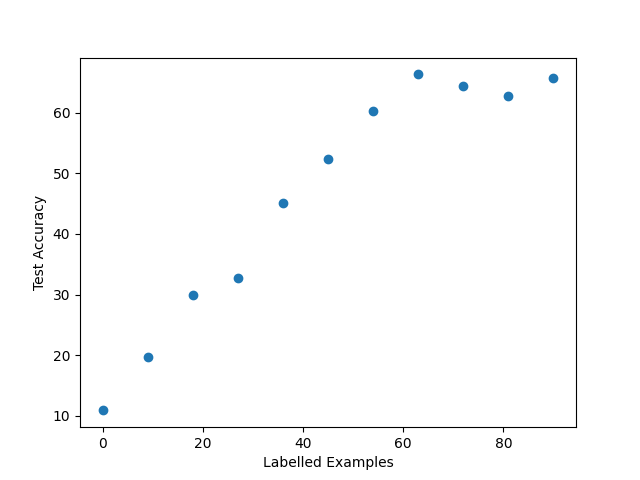
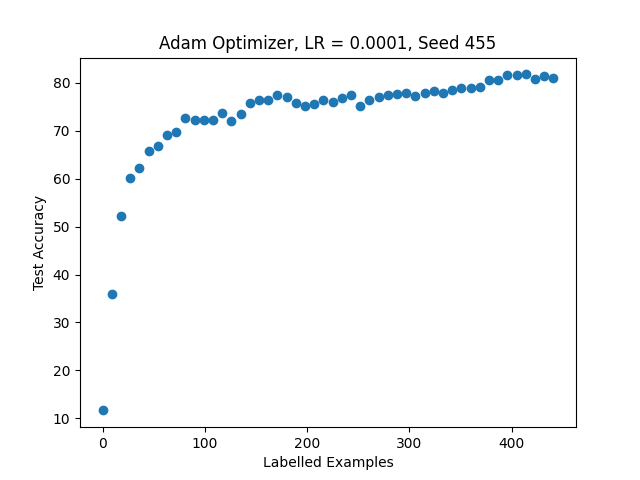
New Query Strategies

diff --git a/Active_FSL/base_main.py b/Active_FSL/base_main.py
@@ -1,8 +1,3 @@
-'''Active Learning Procedure in PyTorch.
-
-Reference:
-[Yoo et al. 2019] Learning Loss for Active Learning (https://arxiv.org/abs/1905.03677)
-'''
 from __future__ import division 
 #from pickle import TRUE
 from scipy.stats import entropy
@@ -52,7 +47,7 @@ random.seed(123) # controls python packages, e.g. random.choice()
 np.random.seed(123)
 
 # Torch Random Seed
-r_seed=459
+r_seed=455
 torch.manual_seed(r_seed)
 torch.cuda.manual_seed(r_seed)
 torch.backends.cudnn.deterministic = True
@@ -332,22 +327,22 @@ def test(models, dataloaders, mode='val'):
 ################# Informativeness calculation methods #################
 
 ###### Query strategy: Entropy-based score ############
-#def get_uncertainty(models, unlabeled_loader,unlabeled_set):
-#    models['backbone'].eval()
-#    entropylist=[]
-#    with torch.no_grad():
-#        for (inputs, labels) in unlabeled_loader:
-#            inputs = inputs.cuda()
-#            labels = labels.cuda()
-#            scores, _ = models['backbone'](inputs)
-#            probs = torch.nn.functional.softmax(scores, dim=1)
-#            for x in probs:
-#                entropylist.append(Categorical(probs = x).entropy())
-#        entropylist=torch.Tensor(entropylist)
-#    return entropylist
+def get_uncertainty_entropy(models, unlabeled_loader,unlabeled_set):
+    models['backbone'].eval()
+    entropylist=[]
+    with torch.no_grad():
+        for (inputs, labels) in unlabeled_loader:
+            inputs = inputs.cuda()
+            labels = labels.cuda()
+            scores, _ = models['backbone'](inputs)
+            probs = torch.nn.functional.softmax(scores, dim=1)
+            for x in probs:
+                entropylist.append(Categorical(probs = x).entropy())
+        entropylist=torch.Tensor(entropylist)
+    return entropylist
 
 ########## Query strategy: Margin sampling ####################
-def get_uncertainty(models, unlabeled_loader):
+def get_uncertainty_margin(models, unlabeled_loader):
     models['backbone'].eval()
     uncertainty_score=[]    
     with torch.no_grad():
@@ -393,7 +388,7 @@ if __name__ == '__main__':
     for trial in range(TRIALS): ## TRIALS=1
         indices = list(range(NUM_TRAIN)) # in config.py, we defined NUM_TRAIN = 10000
 
-##### With no initial set#####
+        ##### With no initial set#####
         labeled_set=[]
         first_selection_labeled_set=[]
 
@@ -421,7 +416,7 @@ if __name__ == '__main__':
         resnet18    = resnet.resnet18(num_classes=NUM_CLASSES).cuda()
         
         # load the weights from the pretrained model
-        state_dict = torch.load('/home/jupyter-nschiavo@ualberta.-a5539/realcode/Active-FSL/Pretrain_FSL_Model/model_best_standard.pth.tar') #load weights
+        state_dict = torch.load('/home/jupyter-nschiavo@ualberta.-a5539/realcode/Active-FSL/Pretrain_FSL_Model/model_best_standard.pth.tar')     
         pretrained_dict=state_dict['state_dict']
         model_dict=resnet18.state_dict()
         
@@ -444,15 +439,18 @@ if __name__ == '__main__':
         
 
         ################# Active learning cycles################
-        for cycle in range(CYCLES): # cycles = 15 in config
+        for cycle in range(CYCLES): # cycles in config
 
             criterion      = nn.CrossEntropyLoss(reduction='none')            
             
             ###### Just finetune classifier in each AL cycle.#####
             # finetuning = retraining the pretrained layers
             
-            optim_backbone = optim.SGD(models['backbone'].fc.parameters(), lr=LR, 
-                                    momentum=MOMENTUM, weight_decay=WDECAY)
+            #optim_backbone = optim.SGD(models['backbone'].fc.parameters(), lr=LR, momentum=MOMENTUM, weight_decay=WDECAY)
+            
+            # trying adam optimizer
+            optim_backbone = optim.Adam(models['backbone'].fc.parameters(), lr=LR, weight_decay=WDECAY)
+            
             sched_backbone = lr_scheduler.MultiStepLR(optim_backbone, milestones=MILESTONES)
             optimizers = {'backbone': optim_backbone}
             schedulers = {'backbone': sched_backbone}
@@ -465,6 +463,7 @@ if __name__ == '__main__':
             for i in range(NUM_CLASSES):
                 print("Class{}_acc:{}".format(i,acc[i]))
             
+            # for plotting
             y.append(acc_all)
             
             # the training and test portion of the loop is now complete
@@ -485,7 +484,12 @@ if __name__ == '__main__':
                                           pin_memory=True)
             
             ###### Measure uncertainty of each sample in the unlabeled_set #####
-            uncertainty = get_uncertainty(models, unlabeled_loader)
+            
+            uncertainty = torch.nn.functional.normalize(get_uncertainty_margin(models, unlabeled_loader), dim=0) + torch.nn.functional.normalize(get_uncertainty_entropy(models, unlabeled_loader, unlabeled_set), dim=0)
+            
+            
+            #uncertainty = get_uncertainty_margin(models, unlabeled_loader) + get_uncertainty_entropy(models, unlabeled_loader, unlabeled_set)
+            
             #uncertainty = get_uncertainty(models, unlabeled_loader, unlabeled_set) #for entropy
             
             ###### Index in ascending order #####
@@ -498,8 +502,10 @@ if __name__ == '__main__':
             #first_selection_K_samples=list(torch.tensor(unlabeled_set)[arg][-ADDENDUM:].numpy()) # ADDENDUM=K, select K samples in each active learning cycle.
             
             # even selection method
-            step = len(unlabeled_set)//ADDENDUM + 1
-            first_selection_K_samples=list(torch.tensor(unlabeled_set)[arg][::step].numpy())
+            #step = len(unlabeled_set)//ADDENDUM + 1
+            #first_selection_K_samples=list(torch.tensor(unlabeled_set)[arg][::step].numpy())
+            
+            first_selection_K_samples=list(torch.tensor(unlabeled_set)[arg][:ADDENDUM].numpy())
             
             ### Print the cover ###
             first_selection_K_samples_labels=[]
@@ -512,54 +518,99 @@ if __name__ == '__main__':
             for sample_index in first_selection_K_samples:
                 selected_p_labels.append(pseudo_labels[sample_index])
             #print("First selection indices:",first_selection_K_samples)
-            print("First selection labels:         ",first_selection_K_samples_labels)
-            print("First selection pseudo labels:  ",selected_p_labels)
+            #print("First selection labels:         ",first_selection_K_samples_labels)
+            #print("First selection pseudo labels:  ",selected_p_labels)
             print("First selection distribution:   ",first_selection_K_samples_distribution)
             
             
+            
+            ### begin second selection
+            
+            
             ##### Get NUM_SHOTS true complete sets according to the query list #########
-            list0=[]
-            second_selection_samples=[]
-            for item in arg: # arg is the query list
-                true_label=data_unlabeled.targets[item]
-                if list0.count(true_label)<NUM_SHOTS:
-                    list0.append(true_label)
-                    second_selection_samples.append(item)
-                if len(list0)>(NUM_CLASSES*NUM_SHOTS-1): # sample a complete 9-way one-shot support set
+            
+            ## first 9 samples
+            
+            #list0=[]
+            
+            #second_selection_samples=[]
+            #for item in torch.flip(arg,[0]): # arg is the query list
+                 #true_label=data_unlabeled.targets[item] # target is the true label
+            #    true_label = pseudo_labels[item]
+            #    if list0.count(true_label)<NUM_SHOTS:
+            #        list0.append(true_label)
+            #        second_selection_samples.append(item)
+            #    if len(list0)>(NUM_CLASSES*NUM_SHOTS-1): # sample a complete 9-way one-shot support set
                 #if len(list0)>(NUM_CLASSES-5): # sample a 5-way one-shot support set
-                    break
+            #        break
+            
+            
+            ## evenly selected
+            
+            second_selection_samples=[]
+            splits = (np.array_split(arg, ADDENDUM))
+            list0 = []
+            
+            for phase in splits:
+                for item in torch.flip(phase,[0]):             # arg is the query list                         
+                    
+                    p_label = pseudo_labels[item]
+                    
+                    if list0.count(p_label) == 0:
+                        second_selection_samples.append(item)
+                        list0.append(p_label)
+                        break
+                    
+
+            
+                    
             #print("second_selection_samples_indices:",second_selection_samples)
             second_selection_samples_labels=[]
+            
             for i in second_selection_samples:
                 second_selection_samples_labels.append(data_train.targets[i])
             second_selection_samples_distribution=Counter(second_selection_samples_labels)
-            print("second_selection_samples true labels:             ",second_selection_samples_labels)
-            print("second_selection_samples true label distribution: ",second_selection_samples_distribution)
+            
+            
+            ### end second selection
+            
+            
+            #print("second_selection_samples true labels:             ",second_selection_samples_labels)
+            #print("second_selection_samples true label distribution: ",second_selection_samples_distribution)
                  
+                
+                
+                
             ##### Print statistics #####
             second_selection_samples_labels=[]
             for i in second_selection_samples:
-                second_selection_samples_labels.append(data_train.targets[i])
+                #second_selection_samples_labels.append(data_train.targets[i])
+                second_selection_samples_labels.append(pseudo_labels[i])
             second_selection_samples_distribution=Counter(second_selection_samples_labels)
             second_selected_p_labels=[]
             for sample_index in second_selection_samples:
                 second_selected_p_labels.append(pseudo_labels[sample_index])
             #print("Second selection indices:",second_selection_samples)
-            print("Second selection true labels:   ",second_selection_samples_labels)
-            print("Second selection pseudo labels: ",second_selected_p_labels)
+            #print("Second selection true labels:   ",second_selection_samples_labels)
+            #print("Second selection pseudo labels: ",second_selected_p_labels)
             print("Second selection distribution:  ",second_selection_samples_distribution)
             
             
             ########## Update the labeled dataset and the unlabeled dataset, respectively #####
             ##### If there's only one-round selection #####         
             ##first_selection_labeled_set += first_selection_K_samples  ### for TSNE PLOT
+            
+            # experimental dual round selection
             labeled_set += first_selection_K_samples 
             
             ##### If there's a second round selection#####          
-            # labeled_set += second_selection_samples 
+            labeled_set += second_selection_samples 
+            
+            
             ##print labeled samples indexes
             ##print("Labeled set sample_indexes: ",labeled_set)
             ###print statistics###
+            
             labeled_set_labels=[]
             for i in labeled_set:
                 labeled_set_labels.append(data_train.targets[i])
@@ -618,4 +669,5 @@ if __name__ == '__main__':
     plt.scatter(x, y)
     plt.xlabel("Labelled Examples")
     plt.ylabel("Test Accuracy")
+    plt.title("Adam Optimizer, LR = {}, Seed {}".format(LR, r_seed))
     plt.savefig('img/acc_graph.png')

diff --git a/Active_FSL/config.py b/Active_FSL/config.py
@@ -3,9 +3,9 @@
 ###NCT#
 NUM_TRAIN = 10000 # N
 BATCH     = 128 # B #This would be the test_loader batchsize
-ADDENDUM  = 9 # K: each AL cycle selects K samples
-CYCLES = 11
-NUM_SHOTS=10
+ADDENDUM  = 9 # K: each AL cycle selects K samples; was 9
+CYCLES = 15
+NUM_SHOTS=1 # was 10
 NUM_CLASSES= 9  #train loader batchsize would be smaller= NUM_CLASSES
 NUM_CLUSTERS=9
 TRIALS = 1
@@ -24,7 +24,7 @@ TRIALS = 1
 MARGIN = 1.0 # xi
 WEIGHT = 1.0 # lambda
 EPOCH = 200
-LR = 0.1
+LR = 0.0001 # best success with 1e-4 so far
 MILESTONES = [160]
 EPOCHL = 120 # After 120 epochs, stop the gradient from the loss prediction module propagated to the target model
 MOMENTUM = 0.9
